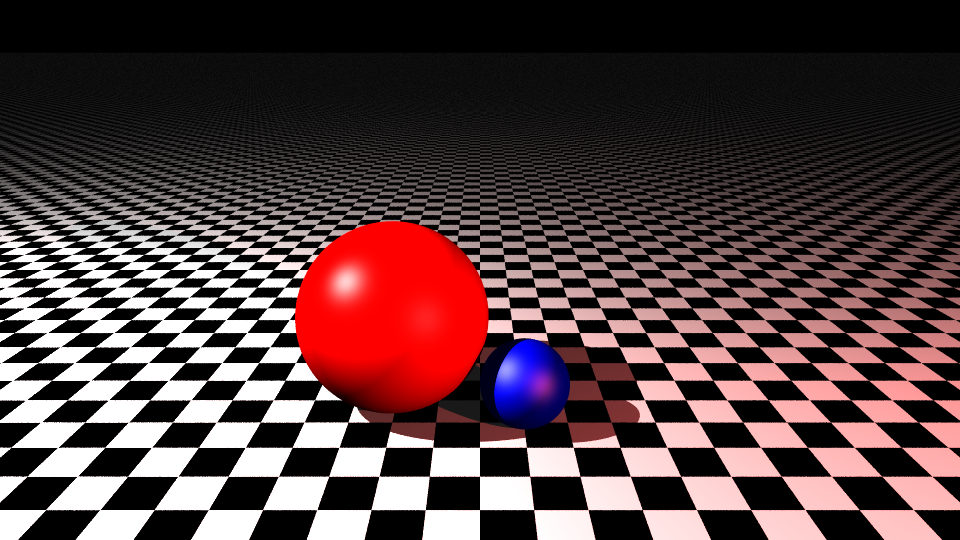
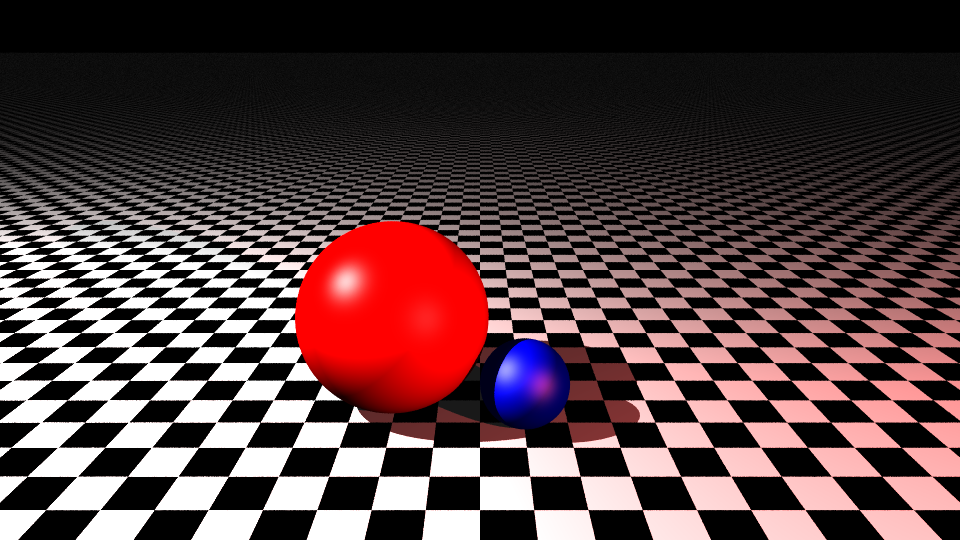
quadric

diff --git a/comp557f25a4-provided/geometry.py b/comp557f25a4-provided/geometry.py
@@ -233,3 +233,72 @@ def intersectMesh(mesh: Mesh,                  # data for this mesh (start face 
     if out_intersect.is_hit:
         out_intersect = changeIntersectFrame(out_intersect, mesh.M, mesh.M_inv) # transform intersection back to world space
     return out_intersect
+
+
+# similar to Mesh class
+@ti.dataclass
+class Quadric:
+    material_id: int
+    kind: int       # 0 = cylinder x^2+z^2=1, 1 = cone x^2+z^2=(1-y)^2
+    M: tm.mat4
+    M_inv: tm.mat4
+
+@ti.func
+def intersectQuadric(quadric: Quadric, ray: Ray, t_min: float, t_max: float) -> Intersection:
+    hit = Intersection() # default is no intersection (is_hit = False)
+    ray = changeRayFrame(ray, quadric.M_inv) # transform ray to local space of the quadric
+    o = ray.origin
+    d = ray.direction
+
+    # side surface: substitute o + t d into the implicit equation -> a t^2 + b t + c = 0
+    a = d.x * d.x + d.z * d.z
+    b = 2.0 * (o.x * d.x + o.z * d.z)
+    c = o.x * o.x + o.z * o.z - 1.0
+    if quadric.kind == 1: # cone: subtract (1-y)^2 = (k - d.y t)^2 with k = 1 - o.y
+        k = 1.0 - o.y
+        a -= d.y * d.y
+        b += 2.0 * k * d.y
+        c = o.x * o.x + o.z * o.z - k * k
+
+    best_t = t_max
+    normal = tm.vec3(0.0, 0.0, 0.0)
+    if abs(a) > EPSILON:
+        disc = b * b - 4.0 * a * c
+        if disc >= 0:
+            sq = ti.sqrt(disc)
+            roots = tm.vec2((-b - sq) / (2.0 * a), (-b + sq) / (2.0 * a))
+            for j in ti.static(range(2)): # either root may be the valid one after clipping
+                t = roots[j]
+                if t >= t_min and t <= best_t:
+                    p = o + t * d
+                    if p.y >= 0.0 and p.y <= 1.0: # clip to the height of the shape
+                        best_t = t
+                        hit.is_hit = True
+                        if quadric.kind == 0:
+                            normal = tm.vec3(p.x, 0.0, p.z) # gradient of x^2+z^2-1
+                        else:
+                            normal = tm.vec3(p.x, 1.0 - p.y, p.z) # gradient of x^2+z^2-(1-y)^2
+
+    # caps: bottom disk at y = 0 (both shapes), top disk at y = 1 (cylinder only)
+    if abs(d.y) > EPSILON:
+        t = -o.y / d.y
+        p = o + t * d
+        if t >= t_min and t <= best_t and p.x * p.x + p.z * p.z <= 1.0:
+            best_t = t
+            hit.is_hit = True
+            normal = tm.vec3(0.0, -1.0, 0.0)
+        if quadric.kind == 0:
+            t = (1.0 - o.y) / d.y
+            p = o + t * d
+            if t >= t_min and t <= best_t and p.x * p.x + p.z * p.z <= 1.0:
+                best_t = t
+                hit.is_hit = True
+                normal = tm.vec3(0.0, 1.0, 0.0)
+
+    if hit.is_hit:
+        hit.t = best_t
+        hit.position = getRayPoint(ray, best_t)
+        hit.normal = tm.normalize(normal)
+        hit.mat = quadric.material_id
+        hit = changeIntersectFrame(hit, quadric.M, quadric.M_inv) # transform intersection back to world space
+    return hit

diff --git a/comp557f25a4-provided/scene.py b/comp557f25a4-provided/scene.py
@@ -27,6 +27,8 @@ class Scene:
         self.aaboxes = geom.AABox.field(shape=(30))
         self.nb_meshes = ti.field(dtype=int, shape=())
         self.meshes = geom.Mesh.field(shape=(5))
+        self.nb_quadrics = ti.field(dtype=int, shape=())
+        self.quadrics = geom.Quadric.field(shape=(10))
         self.nb_lights = ti.field(dtype=int, shape=())
         self.lights = Light.field(shape=(5))
         self.meshes_verts = ti.Vector.field(3, shape=(10000), dtype=float)
@@ -102,6 +104,13 @@ class Scene:
             print("Warning: reallocating meshes field to larger size")
             self.meshes = geom.Mesh.field(shape=(self.nb_meshes[None]))
         for i,m in enumerate(objects["mesh"]): self.meshes[i] = m
+
+        quadrics = objects["cylinder"] + objects["cone"]
+        self.nb_quadrics[None] = len(quadrics)
+        if self.nb_quadrics[None] > self.quadrics.shape[0]:
+            print("Warning: reallocating quadrics field to larger size")
+            self.quadrics = geom.Quadric.field(shape=(self.nb_quadrics[None]))
+        for i,q in enumerate(quadrics): self.quadrics[i] = q
 
         print("done with geometry")     
 
@@ -195,6 +204,10 @@ class Scene:
         ti.loop_config(serialize=True) 
         for i in range(self.nb_meshes[None]):
             hit = geom.intersectMesh(self.meshes[i], self.meshes_verts, self.meshes_faces, ray, t_min, t_max)
+            if hit.is_hit: best = hit; t_max = hit.t
+        ti.loop_config(serialize=True) 
+        for i in range(self.nb_quadrics[None]):
+            hit = geom.intersectQuadric(self.quadrics[i], ray, t_min, t_max)
             if hit.is_hit: best = hit; t_max = hit.t
         return best
 

diff --git a/comp557f25a4-provided/parser.py b/comp557f25a4-provided/parser.py
@@ -122,7 +122,9 @@ def load_scene(infile: str, image_scale_factor: float, scene: Scene):
     objects = {"sphere": [],
                "plane": [],
                "box": [],
-               "mesh": []}  # lists of loaded object geometries and hierarchy roots
+               "mesh": [],
+               "cylinder": [],
+               "cone": []}  # lists of loaded object geometries and hierarchy roots
     node_by_name = {}  # dictionary of geometries by name (for instances)
 
     M_parent = tm.mat4(np.eye(4))  # identity matrix as the initial parent transformation
@@ -195,6 +197,9 @@ def load_geometry(geometry, material_id_by_name, M_parent: tm.mat4 ):
         g_normal = tm.vec3(geometry.get("normal",[0,1,0]))
         M, M_inv = load_geometry_transformation_matrix(geometry, M_parent)
         return geom.Plane(material_id, g_normal, M, M_inv)
+    elif type == "cylinder" or type == "cone":
+        M, M_inv = load_geometry_transformation_matrix(geometry, M_parent)
+        return geom.Quadric(material_id, 0 if type == "cylinder" else 1, M, M_inv)
     elif type == "box":
         minpos = tm.vec3(geometry.get("min",[-1,-1,-1]))
         maxpos = tm.vec3(geometry.get("max",[1,1,1]))
